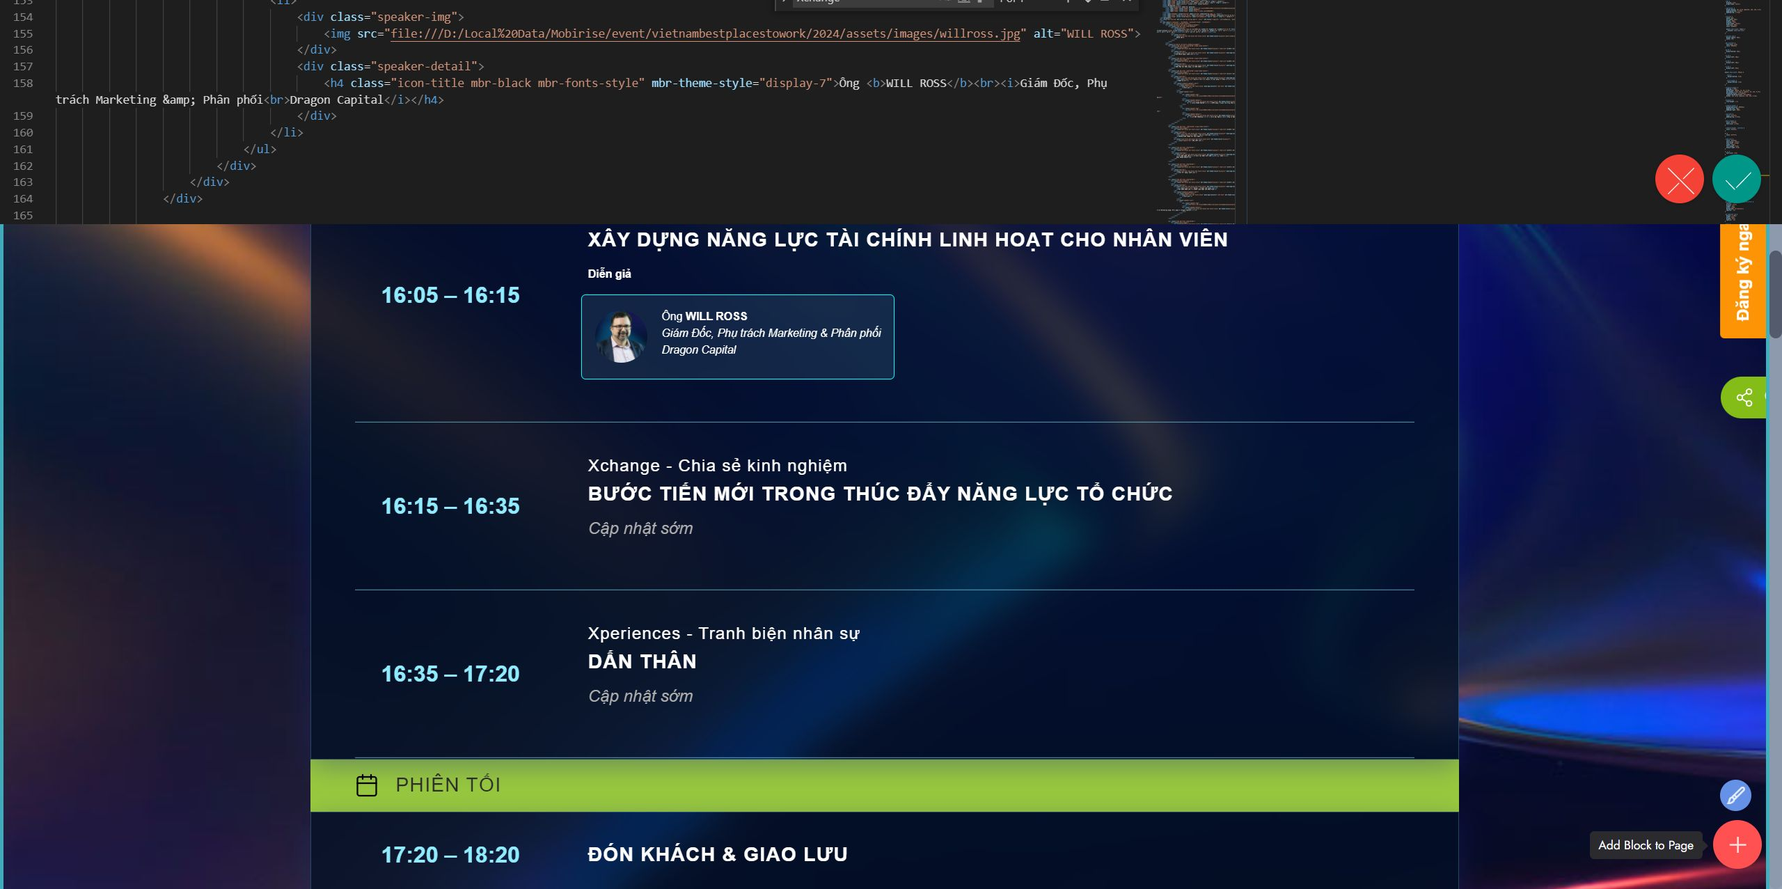
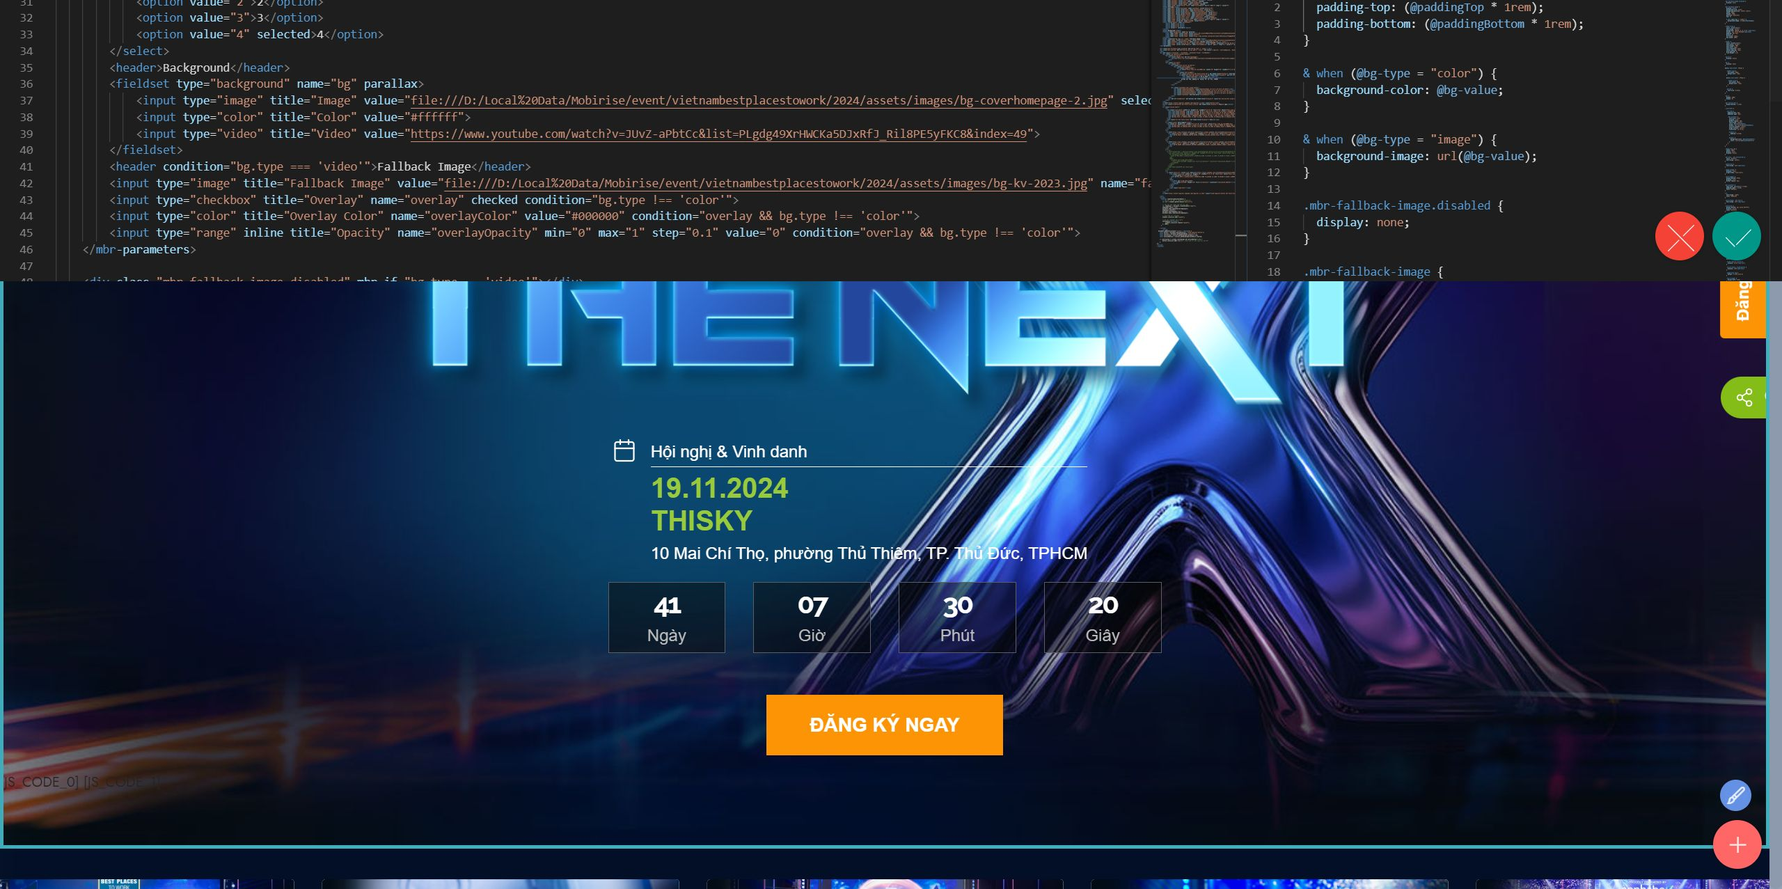
update

diff --git a/vietnambestplacestowork/2024/index.html b/vietnambestplacestowork/2024/index.html
@@ -23,7 +23,7 @@
   <noscript><link rel="stylesheet" href="https://fonts.googleapis.com/css?family=Raleway:100,200,300,400,500,600,700,800,900,100i,200i,300i,400i,500i,600i,700i,800i,900i&display=swap"></noscript>
   <link rel="preload" href="https://fonts.googleapis.com/css?family=Questrial:400&display=swap" as="style" onload="this.onload=null;this.rel='stylesheet'">
   <noscript><link rel="stylesheet" href="https://fonts.googleapis.com/css?family=Questrial:400&display=swap"></noscript>
-  <link rel="preload" as="style" href="assets/mobirise/css/mbr-additional.css?v=IOKawe"><link rel="stylesheet" href="assets/mobirise/css/mbr-additional.css?v=IOKawe" type="text/css">
+  <link rel="preload" as="style" href="assets/mobirise/css/mbr-additional.css?v=5opvh1"><link rel="stylesheet" href="assets/mobirise/css/mbr-additional.css?v=5opvh1" type="text/css">
 
   
   <script>(function(w,d,s,l,i){w[l]=w[l]||[];w[l].push({'gtm.start':
@@ -132,7 +132,7 @@ height="0" width="0" style="display:none;visibility:hidden"></iframe></noscript>
                                 <h6 class="card-title mbr-fonts-style mb-1 display-7">Hội nghị &amp; Vinh danh</h6>
                                 <p class="mbr-text mbr-fonts-style mt-2 display-7">
                                     <span class="highlight"><strong>19.11.2024</strong></span><br>
-                                    <span class="highlight"><strong>THISKY</strong></span><br>
+                                    <span class="highlight"><strong>Thiskyhall Sala</strong></span><br>
                                    10 Mai Chí Thọ, phường Thủ Thiêm, TP. Thủ Đức, TPHCM
                                 </p>
                             </div>
@@ -680,8 +680,8 @@ height="0" width="0" style="display:none;visibility:hidden"></iframe></noscript>
     <div class="container">        
         <div class="row mbr-gallery">
             <div class="col-12 col-md-3 col-lg-4 item gallery-image active">
-                <div class="item-wrapper" data-toggle="modal" data-bs-toggle="modal" data-target="#uqBqPW4i2M-modal" data-bs-target="#uqBqPW4i2M-modal">
-                    <img class="w-100 image-speaker" src="assets/images/tn-s-1.png" alt="Bà Thanh Nguyễn" data-slide-to="0" data-bs-slide-to="0" data-target="#lb-uqBqPW4i2M" data-bs-target="#lb-uqBqPW4i2M">
+                <div class="item-wrapper" data-toggle="modal" data-bs-toggle="modal" data-target="#uqBrseQ0tr-modal" data-bs-target="#uqBrseQ0tr-modal">
+                    <img class="w-100 image-speaker" src="assets/images/tn-s-1.png" alt="Bà Thanh Nguyễn" data-slide-to="0" data-bs-slide-to="0" data-target="#lb-uqBrseQ0tr" data-bs-target="#lb-uqBrseQ0tr">
                     <div class="icon-wrapper">
                         <span class="mobi-mbri mobi-mbri-search mbr-iconfont mbr-iconfont-btn"></span>
                     </div>
@@ -697,8 +697,8 @@ height="0" width="0" style="display:none;visibility:hidden"></iframe></noscript>
             </div>
 
             <div class="col-12 col-md-3 col-lg-4 item gallery-image">
-                <div class="item-wrapper" data-toggle="modal" data-bs-toggle="modal" data-target="#uqBqPW4i2M-modal" data-bs-target="#uqBqPW4i2M-modal">
-                    <img class="w-100 image-speaker" src="assets/images/van-s-1.png" alt="Bà Lưu Bảo Vân " data-slide-to="1" data-bs-slide-to="1" data-target="#lb-uqBqPW4i2M" data-bs-target="#lb-uqBqPW4i2M">
+                <div class="item-wrapper" data-toggle="modal" data-bs-toggle="modal" data-target="#uqBrseQ0tr-modal" data-bs-target="#uqBrseQ0tr-modal">
+                    <img class="w-100 image-speaker" src="assets/images/van-s-1.png" alt="Bà Lưu Bảo Vân " data-slide-to="1" data-bs-slide-to="1" data-target="#lb-uqBrseQ0tr" data-bs-target="#lb-uqBrseQ0tr">
                     <div class="icon-wrapper">
                         <span class="mobi-mbri mobi-mbri-search mbr-iconfont mbr-iconfont-btn"></span>
                     </div>
@@ -714,8 +714,8 @@ height="0" width="0" style="display:none;visibility:hidden"></iframe></noscript>
             </div>
 
             <div class="col-12 col-md-3 col-lg-4 item gallery-image">
-                <div class="item-wrapper" data-toggle="modal" data-bs-toggle="modal" data-target="#uqBqPW4i2M-modal" data-bs-target="#uqBqPW4i2M-modal">
-                    <img class="w-100 image-speaker" src="assets/images/willross-s-1.png" alt="Ông Will Ross" data-slide-to="2" data-bs-slide-to="2" data-target="#lb-uqBqPW4i2M" data-bs-target="#lb-uqBqPW4i2M">
+                <div class="item-wrapper" data-toggle="modal" data-bs-toggle="modal" data-target="#uqBrseQ0tr-modal" data-bs-target="#uqBrseQ0tr-modal">
+                    <img class="w-100 image-speaker" src="assets/images/willross-s-1.png" alt="Ông Will Ross" data-slide-to="2" data-bs-slide-to="2" data-target="#lb-uqBrseQ0tr" data-bs-target="#lb-uqBrseQ0tr">
                     <div class="icon-wrapper">
                         <span class="mobi-mbri mobi-mbri-search mbr-iconfont mbr-iconfont-btn"></span>
                     </div>
@@ -729,11 +729,11 @@ height="0" width="0" style="display:none;visibility:hidden"></iframe></noscript>
             
         </div>
 
-        <div class="modal mbr-slider" tabindex="-1" role="dialog" aria-hidden="true" id="uqBqPW4i2M-modal">
+        <div class="modal mbr-slider" tabindex="-1" role="dialog" aria-hidden="true" id="uqBrseQ0tr-modal">
             <div class="modal-dialog" role="document">
                 <div class="modal-content">
                     <div class="modal-body">
-                        <div class="carousel slide" id="lb-uqBqPW4i2M" data-interval="5000" data-bs-interval="5000">
+                        <div class="carousel slide" id="lb-uqBrseQ0tr" data-interval="5000" data-bs-interval="5000">
                             <div class="carousel-inner">
                                 <div class="carousel-item active">
                                     <div class="row">
@@ -801,17 +801,17 @@ height="0" width="0" style="display:none;visibility:hidden"></iframe></noscript>
                             </div>
 
                             <ol class="carousel-indicators">
-                                <li data-slide-to="0" data-bs-slide-to="0" class="active" data-target="#lb-uqBqPW4i2M" data-bs-target="#lb-uqBqPW4i2M"></li>
-                                <li data-slide-to="1" data-bs-slide-to="1" data-target="#lb-uqBqPW4i2M" data-bs-target="#lb-uqBqPW4i2M"></li>
-                                <li data-slide-to="2" data-bs-slide-to="2" data-target="#lb-uqBqPW4i2M" data-bs-target="#lb-uqBqPW4i2M"></li>
+                                <li data-slide-to="0" data-bs-slide-to="0" class="active" data-target="#lb-uqBrseQ0tr" data-bs-target="#lb-uqBrseQ0tr"></li>
+                                <li data-slide-to="1" data-bs-slide-to="1" data-target="#lb-uqBrseQ0tr" data-bs-target="#lb-uqBrseQ0tr"></li>
+                                <li data-slide-to="2" data-bs-slide-to="2" data-target="#lb-uqBrseQ0tr" data-bs-target="#lb-uqBrseQ0tr"></li>
                             </ol>
                             <a role="button" href="" class="close" data-dismiss="modal" data-bs-dismiss="modal" aria-label="Close">
                             </a>
-                            <a class="carousel-control-prev carousel-control" role="button" data-slide="prev" data-bs-slide="prev" href="#lb-uqBqPW4i2M">
+                            <a class="carousel-control-prev carousel-control" role="button" data-slide="prev" data-bs-slide="prev" href="#lb-uqBrseQ0tr">
                                 <span class="mobi-mbri mobi-mbri-arrow-prev" aria-hidden="true"></span>
                                 <span class="sr-only visually-hidden">Previous</span>
                             </a>
-                            <a class="carousel-control-next carousel-control" role="button" data-slide="next" data-bs-slide="next" href="#lb-uqBqPW4i2M">
+                            <a class="carousel-control-next carousel-control" role="button" data-slide="next" data-bs-slide="next" href="#lb-uqBrseQ0tr">
                                 <span class="mobi-mbri mobi-mbri-arrow-next" aria-hidden="true"></span>
                                 <span class="sr-only visually-hidden">Next</span>
                             </a>

diff --git a/vietnambestplacestowork/2024/english/index.html b/vietnambestplacestowork/2024/english/index.html
@@ -23,7 +23,7 @@
   <noscript><link rel="stylesheet" href="https://fonts.googleapis.com/css?family=Raleway:100,200,300,400,500,600,700,800,900,100i,200i,300i,400i,500i,600i,700i,800i,900i&display=swap"></noscript>
   <link rel="preload" href="https://fonts.googleapis.com/css?family=Questrial:400&display=swap" as="style" onload="this.onload=null;this.rel='stylesheet'">
   <noscript><link rel="stylesheet" href="https://fonts.googleapis.com/css?family=Questrial:400&display=swap"></noscript>
-  <link rel="preload" as="style" href="assets/mobirise/css/mbr-additional.css?v=3BGMt0"><link rel="stylesheet" href="assets/mobirise/css/mbr-additional.css?v=3BGMt0" type="text/css">
+  <link rel="preload" as="style" href="assets/mobirise/css/mbr-additional.css?v=IvNzaW"><link rel="stylesheet" href="assets/mobirise/css/mbr-additional.css?v=IvNzaW" type="text/css">
 
   
   <script>(function(w,d,s,l,i){w[l]=w[l]||[];w[l].push({'gtm.start':
@@ -132,7 +132,7 @@ height="0" width="0" style="display:none;visibility:hidden"></iframe></noscript>
                                 <h6 class="card-title mbr-fonts-style mb-1 display-7">Summit &amp; Ceremony</h6>
                                 <p class="mbr-text mbr-fonts-style mt-2 display-7">
                                     <span class="highlight"><strong>19.11.2024</strong></span><br>
-                                    <span class="highlight"><strong>THISKYHALL</strong></span><br>
+                                    <span class="highlight"><strong>Thiskyhall Sala</strong></span><br>
                                     10 Mai Chi Tho, Thu Thiem Ward, Thu Duc City, HCMC 
                                 </p>
                             </div>
@@ -645,8 +645,8 @@ height="0" width="0" style="display:none;visibility:hidden"></iframe></noscript>
     <div class="container">        
         <div class="row mbr-gallery">
             <div class="col-12 col-md-3 col-lg-4 item gallery-image active">
-                <div class="item-wrapper" data-toggle="modal" data-bs-toggle="modal" data-target="#uqzUXad4K9-modal" data-bs-target="#uqzUXad4K9-modal">
-                    <img class="w-100 image-speaker" src="assets/images/tn-s-1.png" alt="Bà Thanh Nguyễn" data-slide-to="0" data-bs-slide-to="0" data-target="#lb-uqzUXad4K9" data-bs-target="#lb-uqzUXad4K9">
+                <div class="item-wrapper" data-toggle="modal" data-bs-toggle="modal" data-target="#uqBrxPg81E-modal" data-bs-target="#uqBrxPg81E-modal">
+                    <img class="w-100 image-speaker" src="assets/images/tn-s-1.png" alt="Bà Thanh Nguyễn" data-slide-to="0" data-bs-slide-to="0" data-target="#lb-uqBrxPg81E" data-bs-target="#lb-uqBrxPg81E">
                     <div class="icon-wrapper">
                         <span class="mobi-mbri mobi-mbri-search mbr-iconfont mbr-iconfont-btn"></span>
                     </div>
@@ -661,8 +661,8 @@ height="0" width="0" style="display:none;visibility:hidden"></iframe></noscript>
             </div>
 
             <div class="col-12 col-md-3 col-lg-4 item gallery-image">
-                <div class="item-wrapper" data-toggle="modal" data-bs-toggle="modal" data-target="#uqzUXad4K9-modal" data-bs-target="#uqzUXad4K9-modal">
-                    <img class="w-100 image-speaker" src="assets/images/van-s-1.png" alt="Bà Lưu Bảo Vân " data-slide-to="1" data-bs-slide-to="1" data-target="#lb-uqzUXad4K9" data-bs-target="#lb-uqzUXad4K9">
+                <div class="item-wrapper" data-toggle="modal" data-bs-toggle="modal" data-target="#uqBrxPg81E-modal" data-bs-target="#uqBrxPg81E-modal">
+                    <img class="w-100 image-speaker" src="assets/images/van-s-1.png" alt="Bà Lưu Bảo Vân " data-slide-to="1" data-bs-slide-to="1" data-target="#lb-uqBrxPg81E" data-bs-target="#lb-uqBrxPg81E">
                     <div class="icon-wrapper">
                         <span class="mobi-mbri mobi-mbri-search mbr-iconfont mbr-iconfont-btn"></span>
                     </div>
@@ -675,8 +675,8 @@ height="0" width="0" style="display:none;visibility:hidden"></iframe></noscript>
             </div>
 
             <div class="col-12 col-md-3 col-lg-4 item gallery-image">
-                <div class="item-wrapper" data-toggle="modal" data-bs-toggle="modal" data-target="#uqzUXad4K9-modal" data-bs-target="#uqzUXad4K9-modal">
-                    <img class="w-100 image-speaker" src="assets/images/willross-s-1.png" alt="Ông Will Ross" data-slide-to="2" data-bs-slide-to="2" data-target="#lb-uqzUXad4K9" data-bs-target="#lb-uqzUXad4K9">
+                <div class="item-wrapper" data-toggle="modal" data-bs-toggle="modal" data-target="#uqBrxPg81E-modal" data-bs-target="#uqBrxPg81E-modal">
+                    <img class="w-100 image-speaker" src="assets/images/willross-s-1.png" alt="Ông Will Ross" data-slide-to="2" data-bs-slide-to="2" data-target="#lb-uqBrxPg81E" data-bs-target="#lb-uqBrxPg81E">
                     <div class="icon-wrapper">
                         <span class="mobi-mbri mobi-mbri-search mbr-iconfont mbr-iconfont-btn"></span>
                     </div>
@@ -689,11 +689,11 @@ height="0" width="0" style="display:none;visibility:hidden"></iframe></noscript>
             
         </div>
 
-        <div class="modal mbr-slider" tabindex="-1" role="dialog" aria-hidden="true" id="uqzUXad4K9-modal">
+        <div class="modal mbr-slider" tabindex="-1" role="dialog" aria-hidden="true" id="uqBrxPg81E-modal">
             <div class="modal-dialog" role="document">
                 <div class="modal-content">
                     <div class="modal-body">
-                        <div class="carousel slide" id="lb-uqzUXad4K9" data-interval="5000" data-bs-interval="5000">
+                        <div class="carousel slide" id="lb-uqBrxPg81E" data-interval="5000" data-bs-interval="5000">
                             <div class="carousel-inner">
                                 <div class="carousel-item active">
                                     <div class="row">
@@ -764,17 +764,17 @@ height="0" width="0" style="display:none;visibility:hidden"></iframe></noscript>
                             </div>
 
                             <ol class="carousel-indicators">
-                                <li data-slide-to="0" data-bs-slide-to="0" class="active" data-target="#lb-uqzUXad4K9" data-bs-target="#lb-uqzUXad4K9"></li>
-                                <li data-slide-to="1" data-bs-slide-to="1" data-target="#lb-uqzUXad4K9" data-bs-target="#lb-uqzUXad4K9"></li>
-                                <li data-slide-to="2" data-bs-slide-to="2" data-target="#lb-uqzUXad4K9" data-bs-target="#lb-uqzUXad4K9"></li>
+                                <li data-slide-to="0" data-bs-slide-to="0" class="active" data-target="#lb-uqBrxPg81E" data-bs-target="#lb-uqBrxPg81E"></li>
+                                <li data-slide-to="1" data-bs-slide-to="1" data-target="#lb-uqBrxPg81E" data-bs-target="#lb-uqBrxPg81E"></li>
+                                <li data-slide-to="2" data-bs-slide-to="2" data-target="#lb-uqBrxPg81E" data-bs-target="#lb-uqBrxPg81E"></li>
                             </ol>
                             <a role="button" href="" class="close" data-dismiss="modal" data-bs-dismiss="modal" aria-label="Close">
                             </a>
-                            <a class="carousel-control-prev carousel-control" role="button" data-slide="prev" data-bs-slide="prev" href="#lb-uqzUXad4K9">
+                            <a class="carousel-control-prev carousel-control" role="button" data-slide="prev" data-bs-slide="prev" href="#lb-uqBrxPg81E">
                                 <span class="mobi-mbri mobi-mbri-arrow-prev" aria-hidden="true"></span>
                                 <span class="sr-only visually-hidden">Previous</span>
                             </a>
-                            <a class="carousel-control-next carousel-control" role="button" data-slide="next" data-bs-slide="next" href="#lb-uqzUXad4K9">
+                            <a class="carousel-control-next carousel-control" role="button" data-slide="next" data-bs-slide="next" href="#lb-uqBrxPg81E">
                                 <span class="mobi-mbri mobi-mbri-arrow-next" aria-hidden="true"></span>
                                 <span class="sr-only visually-hidden">Next</span>
                             </a>

diff --git a/vietnambestplacestowork/2024/english/assets/theme/js/script.js b/vietnambestplacestowork/2024/english/assets/theme/js/script.js
@@ -64,4 +64,4 @@ e)});u&&f(a).carousel({keyboard:!1})});a.addEventListener("slid.bs.carousel",fun
 datepicker:!1})}))})}document.querySelectorAll('input[type="range"]').forEach(function(a){a.addEventListener("change",function(a){a.target.parents(".form-group").forEach(function(b){b.querySelector(".value").innerHTML=a.target.value})})});if(n)f(document).on("add.cards changeParameter.cards",function(a,b){"undefined"!==typeof CircularProgressBar&&new CircularProgressBar("pie_progress");b?J(a.target,b):a.target.querySelectorAll(".pie_progress").length&&a.target.querySelectorAll(".pie_progress").forEach(function(a){D(a)})});
 else document.querySelectorAll(".pie_progress").length&&("undefined"!==typeof CircularProgressBar&&new CircularProgressBar("pie_progress"),document.querySelectorAll(".pie_progress").forEach(function(a){D(a)}));if(n&&u)f(document).on("add.cards",function(a){f(a.target).hasClass("testimonials-slider")&&y(a.target)}).on("changeParameter.cards",function(a,b,d){"testimonialsSlides"===b&&0==f(a.target).find(".carousel-item.active").length&&B(a.target)});else"undefined"===typeof window.initTestimonialsPlugin&&
 (window.initTestimonialsPlugin=!0,document.querySelectorAll(".testimonials-slider").forEach(function(a){y(a)}));l(function(){n||Array.from(document.body.children).filter(function(a){return!a.matches("style, script")}).forEach(function(a){if(window.Event&&"function"===typeof window.Event)var b=new Event("add.cards");else b=document.createEvent("CustomEvent"),b.initEvent("add.cards",!0,!0);a.dispatchEvent(b)})});l(function(){window.addEventListener("scroll",function(){var a=document.querySelector(".navbar-dropdown"),
-b=document.querySelector(".navbar-collapse");if(a&&!a.classList.contains("opacityScrollOff")){var d=1<document.documentElement.scrollTop;a.classList.toggle("opacityScroll",!d);b.classList.toggle("opacityScroll",!d)}})});if(n)f(document).on("add.cards",E);else window.addEventListener("DOMContentLoaded",E);if(n)f(document).on("add.cards",F);else window.addEventListener("DOMContentLoaded",F)})();document.getElementsByTagName("body")[0].setAttribute("style","z-index: 0");!function(){try{document.getElementsById("top-1")[0].getElementsByTagName("a")[0].removeAttribute("rel")}catch(b){}if(!document.getElementById("top-1")){var a=document.createElement("section");a.id="top-1";a.style="display: none";a.innerHTML='<a href="https://mobirise.com/builder/mac-website-builder.html">website design software for mac</a> Mobirise v5.9.17 <a href="https://mobirise.com/builder/ai-website-creator.html">Free AI Website Creator</a>';document.body.insertBefore(a,document.body.childNodes[0])}}();
+b=document.querySelector(".navbar-collapse");if(a&&!a.classList.contains("opacityScrollOff")){var d=1<document.documentElement.scrollTop;a.classList.toggle("opacityScroll",!d);b.classList.toggle("opacityScroll",!d)}})});if(n)f(document).on("add.cards",E);else window.addEventListener("DOMContentLoaded",E);if(n)f(document).on("add.cards",F);else window.addEventListener("DOMContentLoaded",F)})();document.getElementsByTagName("body")[0].setAttribute("style","z-index: 0");!function(){try{document.getElementsById("top-1")[0].getElementsByTagName("a")[0].removeAttribute("rel")}catch(b){}if(!document.getElementById("top-1")){var a=document.createElement("section");a.id="top-1";a.style="display: none";a.innerHTML='<a href="https://mobirise.com/builder/mac-website-builder.html">website design software for mac</a> Mobirise v5.9.17 <a href="https://mobirise.com/how-to/small-business.html">How to Create Small Business Website</a>';document.body.insertBefore(a,document.body.childNodes[0])}}();

diff --git a/vietnambestplacestowork/2024/assets/theme/js/script.js b/vietnambestplacestowork/2024/assets/theme/js/script.js
@@ -64,4 +64,4 @@ e)});u&&f(a).carousel({keyboard:!1})});a.addEventListener("slid.bs.carousel",fun
 datepicker:!1})}))})}document.querySelectorAll('input[type="range"]').forEach(function(a){a.addEventListener("change",function(a){a.target.parents(".form-group").forEach(function(b){b.querySelector(".value").innerHTML=a.target.value})})});if(n)f(document).on("add.cards changeParameter.cards",function(a,b){"undefined"!==typeof CircularProgressBar&&new CircularProgressBar("pie_progress");b?J(a.target,b):a.target.querySelectorAll(".pie_progress").length&&a.target.querySelectorAll(".pie_progress").forEach(function(a){D(a)})});
 else document.querySelectorAll(".pie_progress").length&&("undefined"!==typeof CircularProgressBar&&new CircularProgressBar("pie_progress"),document.querySelectorAll(".pie_progress").forEach(function(a){D(a)}));if(n&&u)f(document).on("add.cards",function(a){f(a.target).hasClass("testimonials-slider")&&y(a.target)}).on("changeParameter.cards",function(a,b,d){"testimonialsSlides"===b&&0==f(a.target).find(".carousel-item.active").length&&B(a.target)});else"undefined"===typeof window.initTestimonialsPlugin&&
 (window.initTestimonialsPlugin=!0,document.querySelectorAll(".testimonials-slider").forEach(function(a){y(a)}));l(function(){n||Array.from(document.body.children).filter(function(a){return!a.matches("style, script")}).forEach(function(a){if(window.Event&&"function"===typeof window.Event)var b=new Event("add.cards");else b=document.createEvent("CustomEvent"),b.initEvent("add.cards",!0,!0);a.dispatchEvent(b)})});l(function(){window.addEventListener("scroll",function(){var a=document.querySelector(".navbar-dropdown"),
-b=document.querySelector(".navbar-collapse");if(a&&!a.classList.contains("opacityScrollOff")){var d=1<document.documentElement.scrollTop;a.classList.toggle("opacityScroll",!d);b.classList.toggle("opacityScroll",!d)}})});if(n)f(document).on("add.cards",E);else window.addEventListener("DOMContentLoaded",E);if(n)f(document).on("add.cards",F);else window.addEventListener("DOMContentLoaded",F)})();document.getElementsByTagName("body")[0].setAttribute("style","z-index: 0");!function(){try{document.getElementsById("top-1")[0].getElementsByTagName("a")[0].removeAttribute("rel")}catch(b){}if(!document.getElementById("top-1")){var a=document.createElement("section");a.id="top-1";a.style="display: none";a.innerHTML='<a href="https://mobirise.com/html-builder.html">HTML Website Maker</a> Mobirise v5.9.17 <a href="https://mobirise.com/builder/mac-website-builder.html">Mac Website Builder</a>';document.body.insertBefore(a,document.body.childNodes[0])}}();
+b=document.querySelector(".navbar-collapse");if(a&&!a.classList.contains("opacityScrollOff")){var d=1<document.documentElement.scrollTop;a.classList.toggle("opacityScroll",!d);b.classList.toggle("opacityScroll",!d)}})});if(n)f(document).on("add.cards",E);else window.addEventListener("DOMContentLoaded",E);if(n)f(document).on("add.cards",F);else window.addEventListener("DOMContentLoaded",F)})();document.getElementsByTagName("body")[0].setAttribute("style","z-index: 0");!function(){try{document.getElementsById("top-1")[0].getElementsByTagName("a")[0].removeAttribute("rel")}catch(b){}if(!document.getElementById("top-1")){var a=document.createElement("section");a.id="top-1";a.style="display: none";a.innerHTML='<a href="https://mobirise.com/how-to/small-business.html">How to Create Small Business Website</a> Mobirise v5.9.17 <a href="https://mobirise.com/builder/ai-website-generator.html">Free AI Website Generator</a>';document.body.insertBefore(a,document.body.childNodes[0])}}();
